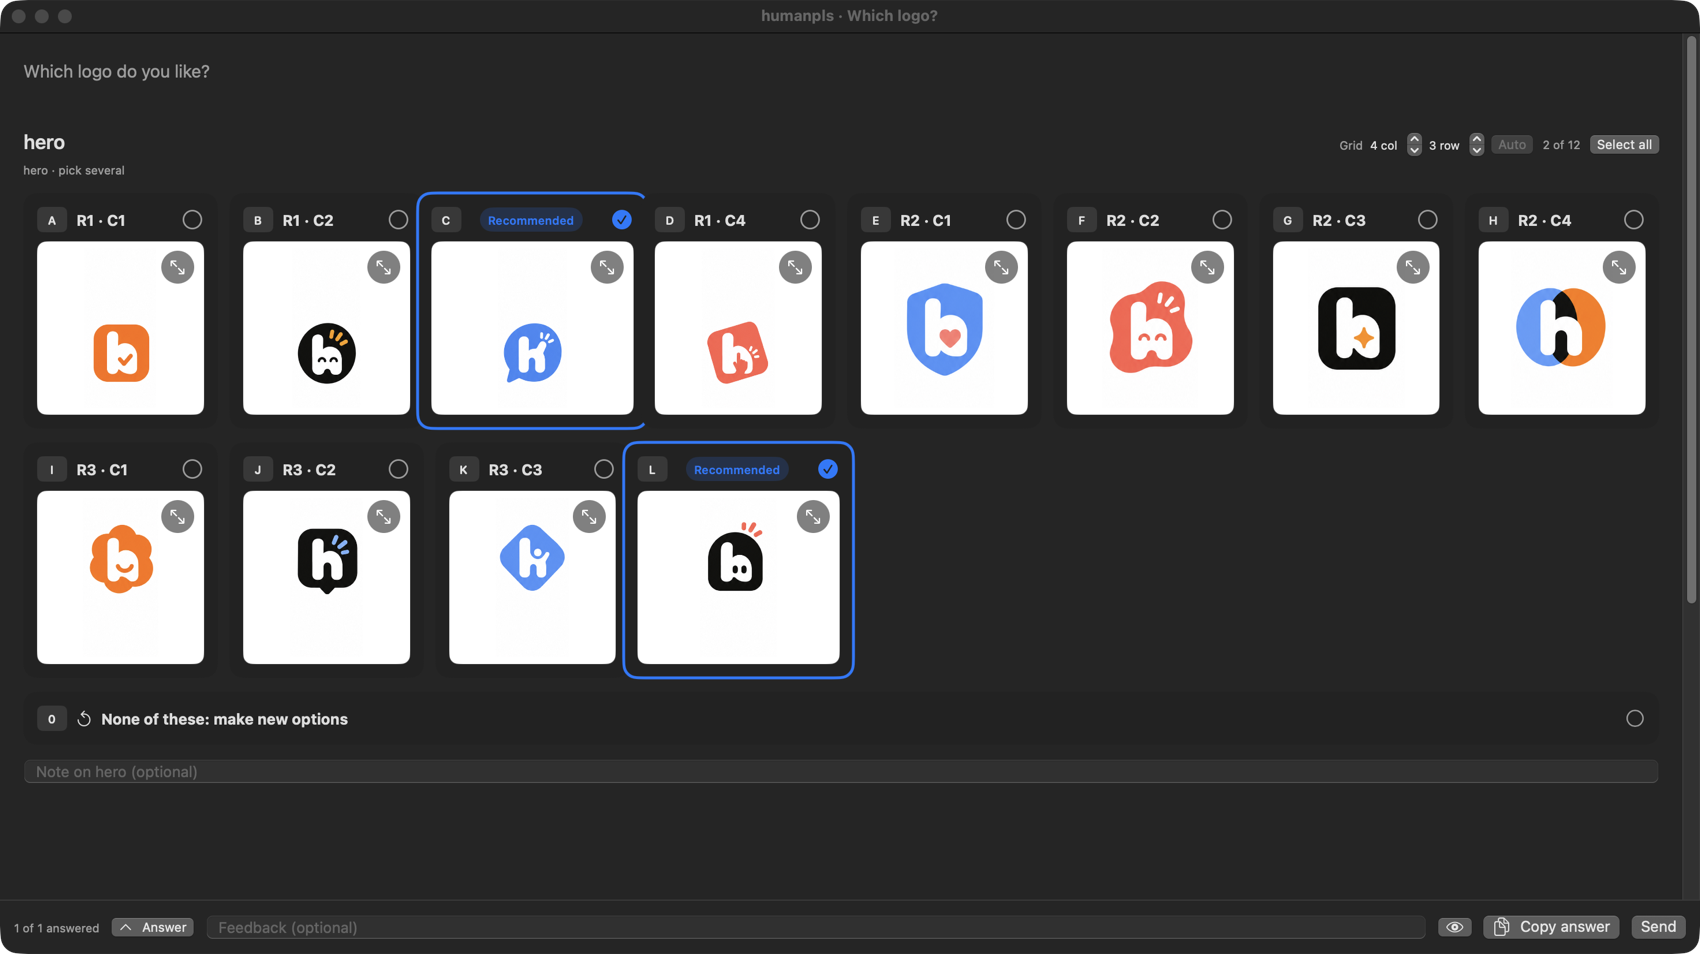
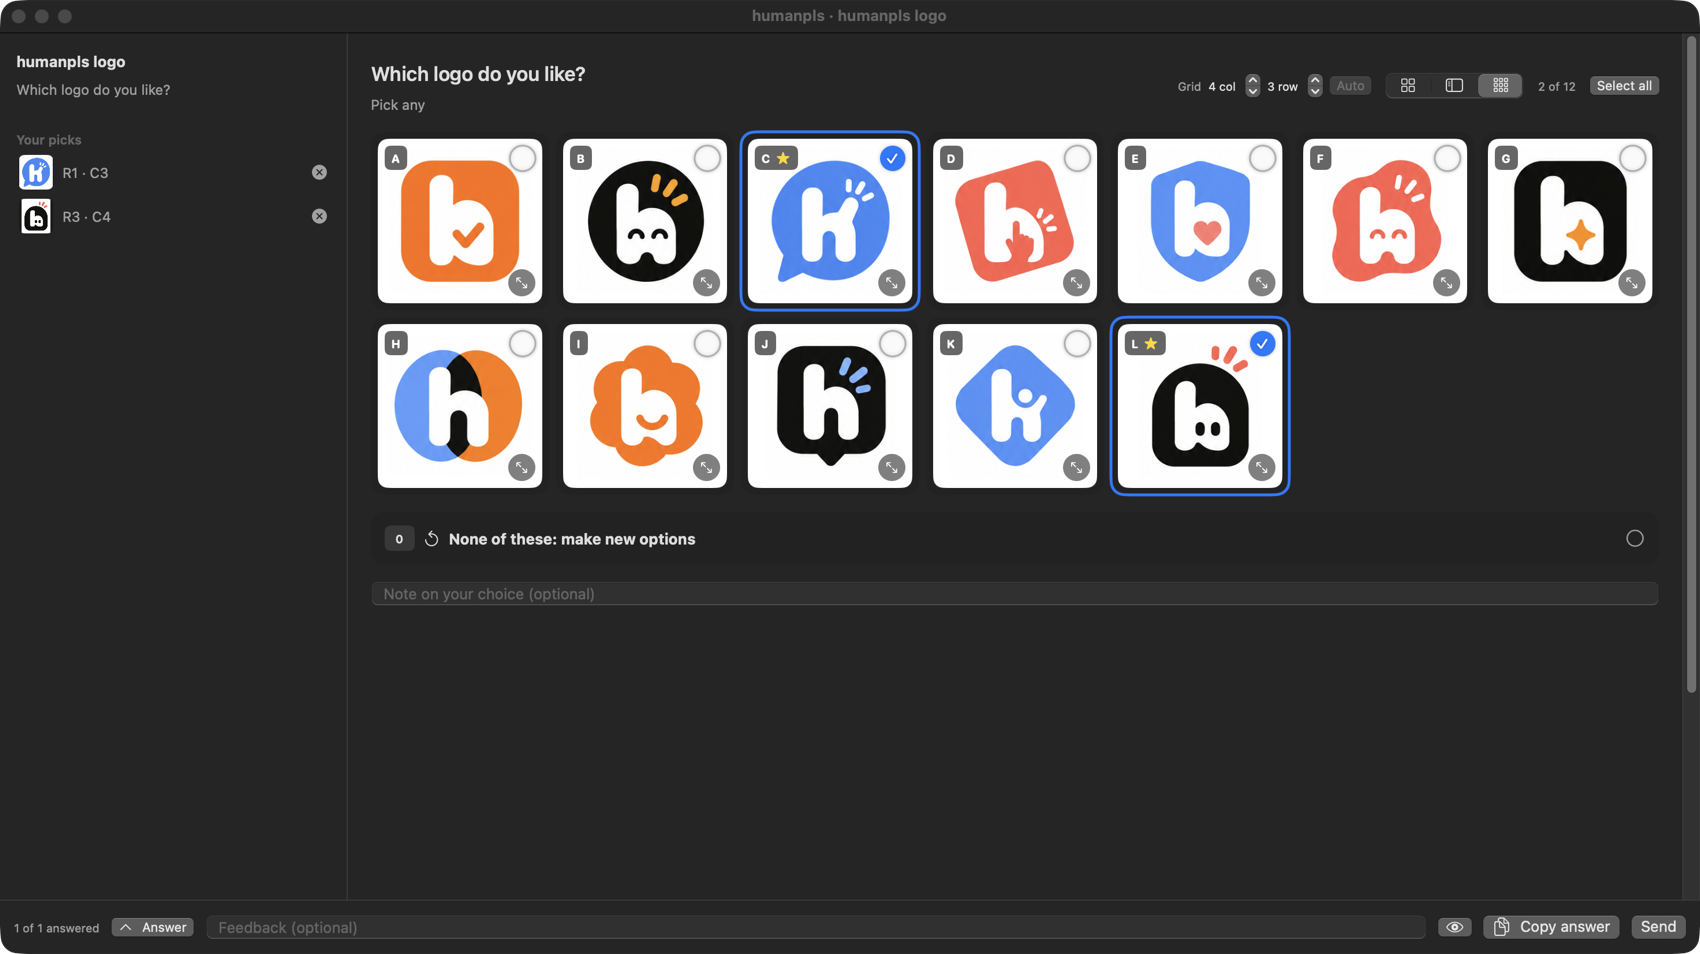
Docs: sidebar, layouts, trimmed cells, --layout

diff --git a/README.md b/README.md
@@ -31,6 +31,7 @@ humanpls fixes this. The agent runs one command, a popup opens with the options,
 humanpls pick --id narrator --question "Which take fits?" a.wav::calm "*b.wav::older, raspy" c.wav
 humanpls pick --id ep02 --section Name text:Aung text:Maung --section Plates --multi a.png b.png c.png
 humanpls pick --id logo --slice auto logo-sheet.png     # one image with many logos: pick a cell
+humanpls pick --id hero --layout detail a.png b.png c.png   # a list and a large preview
 humanpls show gen/ clip.mp4 notes.md                    # just look at things
 humanpls reopen                                         # open the last popup again
 ```
@@ -54,8 +55,9 @@ The top screenshot is the **image sheet** feature: the agent made one picture wi
 
 ## What it does
 
-- **pick**: a sidebar page with one card per option. Text, audio (waveform), image (zoom), video, markdown and code (with syntax colors), HTML, PDF, and any other file (Quick Look thumbnail, Open, Reveal). Pick one or several, "none of these", a note per question, a Recommended badge that starts picked, select all.
-- **Image sheets**: `--slice auto` cuts one image (a logo grid, a contact sheet) into cells that you pick like separate options. The grid is found from the empty space between the marks. If it is wrong, use `--slice 4x3` (columns x rows) or the Grid steppers on the card. The picked cells are cut out at full resolution into `~/Library/Application Support/humanpls/crops/` and their paths go into the answer. The sheet itself is never copied or changed.
+- **pick**: one popup for one or several questions. A **sidebar** shows the title, the questions (with a check when answered) and **your picks** so far, with thumbnails and a remove button. Each option is a card: text, audio (waveform), image (zoom), video, markdown and code (with syntax colors), HTML, PDF, and any other file (Quick Look thumbnail, Open, Reveal). Pick one or several, "none of these", a note per question, a Recommended badge that starts picked, select all.
+- **Three layouts** per question, switched in the header (or started with `--layout grid|detail|dense`): **Grid** (a card per option), **Detail** (a list on the left and a large preview of one option on the right; `↑` `↓` move, `Return` picks) and **Dense** (only big thumbnails, the default for image sheets).
+- **Image sheets**: `--slice auto` cuts one image (a logo grid, a contact sheet) into cells that you pick like separate options. The grid is found from the empty space between the marks. If it is wrong, use `--slice 4x3` (columns x rows) or the Grid steppers on the card. Each cell is trimmed to its content, so a logo is not a small mark in a big white cell. The picked cells are cut out at full resolution into `~/Library/Application Support/humanpls/crops/` and their paths go into the answer. The sheet itself is never copied or changed.
 - **show**: a viewer with a file list. Images: pinch zoom, pen, rectangle, arrow, text, colors, undo; Info panel with the prompt and seed stored in PNG files; A/B compare (side by side with synced zoom, or flip with `F`). Video: J K L (backward, pause, forward, faster on repeat), frame step, `M` to mark a moment with a note. Audio: waveform, marks.
 - **Send**: the answer is pasted into the terminal that ran the command and Enter is pressed. With tmux it goes to the exact pane, even if you switched apps. Otherwise it goes to the terminal app (needs the Accessibility permission). **Copy answer** (`⇧⌘C`) copies the answer text, shows "Copied", and the popup stays open so you can still change it or press Send. `--wait` prints the answer instead, for agents that can wait. Paths with spaces are put in quotes in the answer.
 - **Menu bar icon** with the history. Click a popup to open it again with your picks.

diff --git a/docs/PROTOCOL.md b/docs/PROTOCOL.md
@@ -4,10 +4,14 @@
 
 ```
 humanpls pick --id ID [--title T] [--question Q] [--multi] [--recommend KEY]... [--default KEY]... [--no-preselect]
-              [--items FILE.json] [--slice auto|COLSxROWS] [--section TITLE OPTION...]... [--wait] [--timeout SECONDS] [--dump-job] [OPTION...]
+              [--items FILE.json] [--slice auto|COLSxROWS] [--layout grid|detail|dense] [--section TITLE OPTION...]... [--wait] [--timeout SECONDS] [--dump-job] [OPTION...]
 humanpls show [--id ID] [--title T] [--compare] [--wait] [--dump-job] FILE_OR_FOLDER...
 humanpls reopen [ID]      humanpls list      humanpls quit      humanpls install-cli [DIR]      humanpls serve      humanpls selftest
 ```
+
+`--layout` sets how the options are laid out to start with: `grid` (a card each), `detail` (a list and a large preview) or `dense`
+(only big thumbnails). Without it, image sheets start dense and everything else starts as a grid. The person can switch in the popup.
+In JSON a question can have `"layout"`; the command line only fills the questions that did not choose one.
 
 `--slice` takes exactly one image (the sheet) and turns its cells into the options. `auto` finds the grid from the empty space
 between the marks (small cell numbers are ignored) and fails with a hint if the cells touch. `4x3` means 4 columns by 3 rows.
@@ -40,7 +44,7 @@ A list, `{"items": [...]}` or `{"sections": [...]}`.
 ```
 
 Item keys: one of `file`, `text`, `markdown`, `code` (+ `language`), `html`, `url`; and `label`, `note`, `recommended`, `selected`.
-Relative `file` paths are relative to the JSON file. Question keys: `id`, `title`, `question`, `multi`, `recommend`, `default`, `preselect`.
+Relative `file` paths are relative to the JSON file. Question keys: `id`, `title`, `question`, `multi`, `recommend`, `default`, `preselect`, `layout`, `slice`.
 
 ## Answer text
 
